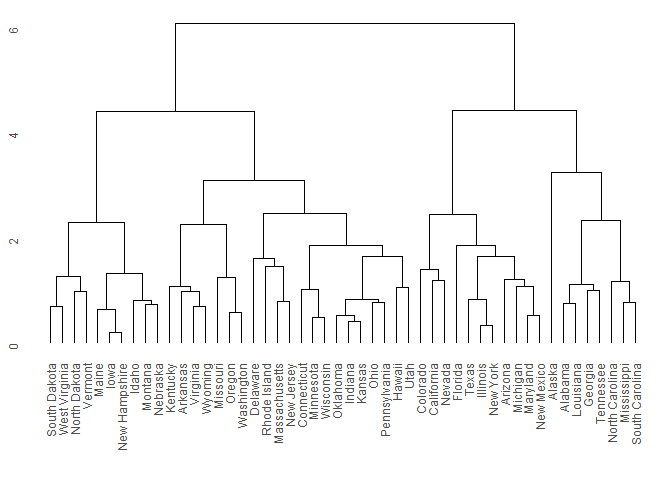
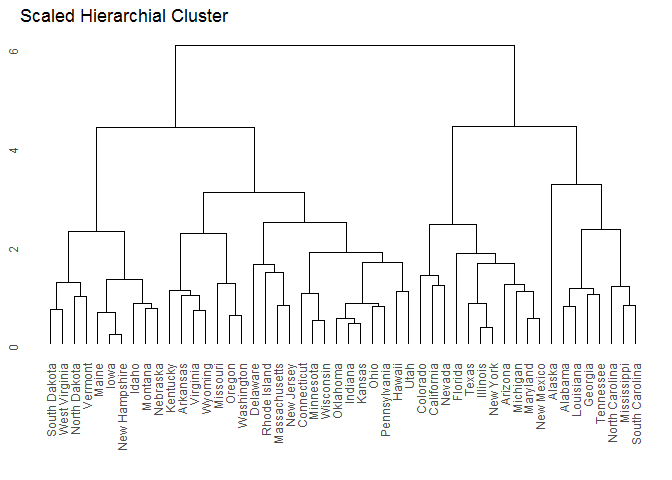
byebyepersp-model

diff --git a/students/Lim_ChengYee/PS9/ps9-nonparametric-unsupervised.md b/students/Lim_ChengYee/PS9/ps9-nonparametric-unsupervised.md
@@ -11,9 +11,7 @@ March 14, 2017
 Attitudes towards feminists \[3 points\]
 ========================================
 
-Estimate a series of models explaining/predicting attitudes towards feminists.
-
-1.  Split the data into a training and test set (70/30%).
+**Estimate a series of models explaining/predicting attitudes towards feminists.** **Split the data into a training and test set (70/30%).**
 
 ``` r
 feminist <- read.csv("./data/feminist.csv") %>%
@@ -24,7 +22,7 @@ feminist_train <- as_tibble(feminist_split$train)
 feminist_test <- as_tibble(feminist_split$test)
 ```
 
-1.  Calculate the test MSE for KNN models with *K* = 5, 10, 15, …, 100, using whatever combination of variables you see fit. Which model produces the lowest test MSE?
+**Calculate the test MSE for KNN models with *K* = 5, 10, 15, …, 100, using whatever combination of variables you see fit. Which model produces the lowest test MSE?**
 
 ``` r
 mse_knn <- data_frame(k = seq(5, 100, by = 5),
@@ -32,37 +30,19 @@ mse_knn <- data_frame(k = seq(5, 100, by = 5),
                          test = select(feminist_test, -feminist), k = .)),
                       mse = map_dbl(knn, ~ mean((feminist_test$feminist - .$pred)^2)))
 
-mse_knn %>% 
-  select(-knn) %>%
-  kable()
+ggplot(mse_knn, aes(k, mse)) +
+  geom_line() +
+  geom_point() + 
+  labs(title = "KNN on feminist data",
+       x = "K",
+       y = "Test mean squared error")
 ```
 
-|    k|  mse|
-|----:|----:|
-|    5|  550|
-|   10|  496|
-|   15|  490|
-|   20|  488|
-|   25|  482|
-|   30|  482|
-|   35|  481|
-|   40|  479|
-|   45|  480|
-|   50|  479|
-|   55|  478|
-|   60|  477|
-|   65|  476|
-|   70|  477|
-|   75|  478|
-|   80|  476|
-|   85|  476|
-|   90|  477|
-|   95|  478|
-|  100|  478|
+![](ps9-nonparametric-unsupervised_files/figure-markdown_github/unnamed-chunk-1-1.png)
 
 The KNN model with *K* = 60 produces the lowest test MSE. The test MSE is 476.
 
-1.  Calculate the test MSE for weighted KNN models with *K* = 5, 10, 15, …, 100 using the same combination of variables as before. Which model produces the lowest test MSE?
+**Calculate the test MSE for weighted KNN models with *K* = 5, 10, 15, …, 100 using the same combination of variables as before. Which model produces the lowest test MSE?**
 
 ``` r
 mse_kknn <- data_frame(k = seq(5, 100, by = 5),
@@ -80,7 +60,7 @@ ggplot(mse_kknn, aes(k, mse)) +
 
 ![](ps9-nonparametric-unsupervised_files/figure-markdown_github/1c-1.png) The KNN model with *K* = 85, 90, 95, 100 produces the lowest test MSE. The test MSE is 439.
 
-1.  Compare the test MSE for the best KNN/wKNN model(s) to the test MSE for the equivalent linear regression, decision tree, boosting, and random forest methods using the same combination of variables as before. Which performs the best? Why do you think this method performed the best, given your knowledge of how it works?
+**Compare the test MSE for the best KNN/wKNN model(s) to the test MSE for the equivalent linear regression, decision tree, boosting, and random forest methods using the same combination of variables as before. Which performs the best? Why do you think this method performed the best, given your knowledge of how it works?**
 
 ``` r
 mse <- function(model, data) {
@@ -128,20 +108,9 @@ The Weighted KNN model had the lowest test MSE, it suggests that the use of simi
 Voter turnout and depression \[2 points\]
 =========================================
 
-The 1998 General Social Survey included several questions about the respondent's mental health. `mental_health.csv` reports several important variables from this survey.
+**Estimate a series of models explaining/predicting voter turnout.**
 
--   `vote96` - 1 if the respondent voted in the 1996 presidential election, 0 otherwise
--   `mhealth_sum` - index variable which assesses the respondent's mental health, ranging from 0 (an individual with no depressed mood) to 9 (an individual with the most severe depressed mood)[1]
--   `age` - age of the respondent
--   `educ` - Number of years of formal education completed by the respondent
--   `black` - 1 if the respondent is black, 0 otherwise
--   `female` - 1 if the respondent is female, 0 if male
--   `married` - 1 if the respondent is currently married, 0 otherwise
--   `inc10` - Family income, in $10,000s
-
-Estimate a series of models explaining/predicting voter turnout.
-
-1.  Split the data into a training and test set (70/30).
+**Split the data into a training and test set (70/30).**
 
 ``` r
 mhealth <- read.csv("./data/mental_health.csv") %>%
@@ -151,7 +120,7 @@ mhealth_train <- as_tibble(mhealth_split$train)
 mhealth_test <- as_tibble(mhealth_split$test)
 ```
 
-1.  Calculate the test error rate for KNN models with *K* = 1, 2, …, 10, using whatever combination of variables you see fit. Which model produces the lowest test MSE?
+**Calculate the test error rate for KNN models with *K* = 1, 2, …, 10, using whatever combination of variables you see fit. Which model produces the lowest test MSE?**
 
 ``` r
 mse_knn <- data_frame(k = 1:10,
@@ -179,7 +148,7 @@ mse_knn %>%
 
 The model that produced the lowest test error rate is *K* = 10. The test MSE is 0.320.
 
-1.  Calculate the test error rate for weighted KNN models with *K* = 1, 2, …, 10 using the same combination of variables as before. Which model produces the lowest test error rate?
+**Calculate the test error rate for weighted KNN models with *K* = 1, 2, …, 10 using the same combination of variables as before. Which model produces the lowest test error rate?**
 
 ``` r
 mse_kknn <- data_frame(k = seq(1, 10, by = 1),
@@ -206,7 +175,7 @@ mse_kknn %>%
 
 The weighted KNN model that produced the lowest test error rate is also *K* = 10. The test MSE is 0.209.
 
-1.  Compare the test error rate for the best KNN/wKNN model(s) to the test error rate for the equivalent logistic regression, decision tree, boosting, random forest, and SVM methods using the same combination of variables as before. Which performs the best? Why do you think this method performed the best, given your knowledge of how it works?
+**Compare the test error rate for the best KNN/wKNN model(s) to the test error rate for the equivalent logistic regression, decision tree, boosting, random forest, and SVM methods using the same combination of variables as before. Which performs the best? Why do you think this method performed the best, given your knowledge of how it works?**
 
 ``` r
 mhealth_glm <- glm(vote96 ~ ., family = binomial, data = mhealth_train)
@@ -256,28 +225,7 @@ Weighted KNN model has the lowest test MSE, followed by support vector machine m
 Colleges \[2 points\]
 =====================
 
-The `College` dataset in the `ISLR` library contains statistics for a large number of U.S. colleges from the 1995 issue of U.S. News and World Report.
-
--   `Private` - A factor with levels `No` and `Yes` indicating private or public university.
--   `Apps` - Number of applications received.
--   `Accept` - Number of applications accepted.
--   `Enroll` - Number of new students enrolled.
--   `Top10perc` - Percent of new students from top 10% of H.S. class.
--   `Top25perc` - Percent of new students from top 25% of H.S. class.
--   `F.Undergrad` - Number of fulltime undergraduates.
--   `P.Undergrad` - Number of parttime undergraduates.
--   `Outstate` - Out-of-state tuition.
--   `Room.Board` - Room and board costs.
--   `Books` - Estimated book costs.
--   `Personal` - Estimated personal spending.
--   `PhD` - Percent of faculty with Ph.D.'s.
--   `Terminal` - Percent of faculty with terminal degrees.
--   `S.F.Ratio` - Student/faculty ratio.
--   `perc.alumni` - Percent of alumni who donate.
--   `Expend` - Instructional expenditure per student.
--   `Grad.Rate` - Graduation rate.
-
-Perform PCA analysis on the college dataset and plot the first two principal components. Describe the results. What variables appear strongly correlated on the first principal component? What about the second principal component?
+**Perform PCA analysis on the college dataset and plot the first two principal components. Describe the results. What variables appear strongly correlated on the first principal component? What about the second principal component?**
 
 ``` r
 df<-College
@@ -313,20 +261,12 @@ college.pca$rotation %>%
 | Expend      |  0.292|  -0.753|  -0.585|   0.009|  -0.019|   0.006|  -0.036|   0.052|  -0.008|  -0.002|   0.001|   0.000|   0.001|   0.000|   0.000|   0.000|   0.000|
 | Grad.Rate   |  0.000|  -0.001|   0.002|  -0.001|  -0.002|  -0.001|  -0.001|  -0.003|   0.005|  -0.002|  -0.248|   0.433|   0.824|   0.265|  -0.031|   0.016|  -0.002|
 
-Biplot is rather difficult to interpret and messy, thus we cannot identify the highly correlated variables. Instead, we looked at the exact makeups of PC1 and PC2. `Apps`, `F.Undergrad`, `Accept` and `Enroll` are strongly correlated with the first principal component. The variables are all related to university admissions. Schools that have large positive values on the first principal component have a larger student population size
-`Outstate` and `Expend` are strongly correlated with the second principal component. The variables are related ot budgeting of the universities. Logically, the more the university spends on each student, the higher out-of-state tuition students have to pay.
+Biplot is rather difficult to interpret and messy, thus we cannot identify the highly correlated variables. Instead, we looked at the exact makeups of PC1 and PC2. `Apps`, `F.Undergrad`, `Accept` and `Enroll` are strongly correlated with the first principal component. The variables are all related to university admissions. Schools that have large positive values on the first principal component have a larger student population size. `Outstate` and `Expend` are strongly correlated with the second principal component. The variables are related ot budgeting of the universities. Logically, the more the university spends on each student, the higher out-of-state tuition students have to pay.
 
 Clustering states \[3 points\]
 ==============================
 
-The `USArrests` dataset contains 50 observations (one for each state) from 1973 with variables on crime statistics:
-
--   `Murder` - Murder arrests (per 100,000)
--   `Assault` - Assault arrests (per 100,000)
--   `Rape` - Rape arrests (per 100,000)
--   `UrbanPop` - Percent urban population
-
-1.  Perform PCA on the dataset and plot the observations on the first and second principal components.
+**Perform PCA on the dataset and plot the observations on the first and second principal components.**
 
 ``` r
 pr.out <- prcomp(USArrests, scale = TRUE)
@@ -345,7 +285,7 @@ biplot(pr.out, scale = 0, cex = .6)
 
 ![](ps9-nonparametric-unsupervised_files/figure-markdown_github/unnamed-chunk-4-1.png) The first principal component is related to measures of violent crimes. The second principal component is related to urban population.
 
-1.  Perform *K*-means clustering with *K* = 2. Plot the observations on the first and second principal components and color-code each state based on their cluster membership. Describe your results.
+**Perform *K*-means clustering with *K* = 2. Plot the observations on the first and second principal components and color-code each state based on their cluster membership. Describe your results.**
 
 ``` r
 PC1 <- as.data.frame(pr.out$x)$PC1
@@ -370,7 +310,7 @@ PCA %>%
 
 With the plot, we can clearly visualize that the states are clustered by the first principal component. States with positive first principal component are one cluster, whereas states with negative first principal component are another cluster. Thus, states are clustered by the high and low violent crime rates.
 
-1.  Perform *K*-means clustering with *K* = 4. Plot the observations on the first and second principal components and color-code each state based on their cluster membership. Describe your results.
+**Perform *K*-means clustering with *K* = 4. Plot the observations on the first and second principal components and color-code each state based on their cluster membership. Describe your results.**
 
 ``` r
 kmean.out <- kmeans(USArrests, 4, nstart = 1)
@@ -389,7 +329,7 @@ PCA %>%
 
 From the graph, we can clearly visualize 4 clusters which are separated mainly based on their first principal component values. Thus, states are clustered based on the level of violent crime rates.
 
-1.  Perform *K*-means clustering with *K* = 3. Plot the observations on the first and second principal components and color-code each state based on their cluster membership. Describe your results.
+**Perform *K*-means clustering with *K* = 3. Plot the observations on the first and second principal components and color-code each state based on their cluster membership. Describe your results.**
 
 ``` r
 kmean.out <- kmeans(USArrests, 3, nstart = 1)
@@ -425,7 +365,7 @@ PCA %>%
 
 ![](ps9-nonparametric-unsupervised_files/figure-markdown_github/unnamed-chunk-8-1.png) From the graph, we can clearly visualize 3 clusters. The cluster in blue has negative first and sceond princpal components. The green cluster has mostly negative second principal component, but positive principal component. The third cluster in red has very positive second principal components.
 
-1.  Using hierarchical clustering with complete linkage and Euclidean distance, cluster the states.
+**Using hierarchical clustering with complete linkage and Euclidean distance, cluster the states.**
 
 ``` r
 hc.complete <- hclust(dist(USArrests), method = "complete")
@@ -435,7 +375,7 @@ ggdendrogram(hc.complete) +
 
 ![](ps9-nonparametric-unsupervised_files/figure-markdown_github/unnamed-chunk-9-1.png)
 
-1.  Cut the dendrogram at a height that results in three distinct clusters. Which states belong to which clusters?
+**Cut the dendrogram at a height that results in three distinct clusters. Which states belong to which clusters?**
 
 ``` r
 states3tree <- cutree(hc.complete, k = 3)
@@ -517,78 +457,17 @@ ggdendrogram(hc.complete) +
 
 ![](ps9-nonparametric-unsupervised_files/figure-markdown_github/unnamed-chunk-10-1.png)
 
-1.  Hierarchically cluster the states using complete linkage and Euclidean distance, after scaling the variables to have standard deviation 1. What effect does scaling the variables have on the hierarchical clustering obtained? In your opinion, should the variables be scaled before the inter-observation dissimilarities are computed? Provide a justification for your answer.
+**Hierarchically cluster the states using complete linkage and Euclidean distance, after scaling the variables to have standard deviation 1. What effect does scaling the variables have on the hierarchical clustering obtained? In your opinion, should the variables be scaled before the inter-observation dissimilarities are computed? Provide a justification for your answer.**
 
 ``` r
 USA_st <- scale(USArrests)
 hc.complete <- hclust(dist(USA_st), method = "complete")
-ggdendrogram(hc.complete)
+ggdendrogram(hc.complete) +
+  labs(title = "Scaled Hierarchial Cluster")
 ```
 
 ![](ps9-nonparametric-unsupervised_files/figure-markdown_github/unnamed-chunk-11-1.png)
 
-``` r
-states3tree <- cutree(hc.complete, k = 3)
-states3tree <- as.data.frame(states3tree) %>% 
-  set_names("cluster")
+After scaling the variables, the dendrogram showed that there is another cluster of states that are more different from the others. In the previous dendrogram drawn, there were three clusters at the second split from the top of the tree. Now there is four.
 
-states3tree %>% 
-  bind_cols(as.data.frame(names)) %>% 
-  arrange(cluster) %>% 
-  kable()
-```
-
-|  cluster| names          |
-|--------:|:---------------|
-|        1| Alabama        |
-|        1| Alaska         |
-|        1| Georgia        |
-|        1| Louisiana      |
-|        1| Mississippi    |
-|        1| North Carolina |
-|        1| South Carolina |
-|        1| Tennessee      |
-|        2| Arizona        |
-|        2| California     |
-|        2| Colorado       |
-|        2| Florida        |
-|        2| Illinois       |
-|        2| Maryland       |
-|        2| Michigan       |
-|        2| Nevada         |
-|        2| New Mexico     |
-|        2| New York       |
-|        2| Texas          |
-|        3| Arkansas       |
-|        3| Connecticut    |
-|        3| Delaware       |
-|        3| Hawaii         |
-|        3| Idaho          |
-|        3| Indiana        |
-|        3| Iowa           |
-|        3| Kansas         |
-|        3| Kentucky       |
-|        3| Maine          |
-|        3| Massachusetts  |
-|        3| Minnesota      |
-|        3| Missouri       |
-|        3| Montana        |
-|        3| Nebraska       |
-|        3| New Hampshire  |
-|        3| New Jersey     |
-|        3| North Dakota   |
-|        3| Ohio           |
-|        3| Oklahoma       |
-|        3| Oregon         |
-|        3| Pennsylvania   |
-|        3| Rhode Island   |
-|        3| South Dakota   |
-|        3| Utah           |
-|        3| Vermont        |
-|        3| Virginia       |
-|        3| Washington     |
-|        3| West Virginia  |
-|        3| Wisconsin      |
-|        3| Wyoming        |
-
-[1] The variable is an index which combines responses to four different questions: "In the past 30 days, how often did you feel: 1) so sad nothing could cheer you up, 2) hopeless, 3) that everything was an effort, and 4) worthless?" Valid responses are none of the time, a little of the time, some of the time, most of the time, and all of the time.
+In my opinion, variables should be scaled before clustering so that every variable is given an equal weightage, and variables with a larger absolute range will not be given overly weighted.
